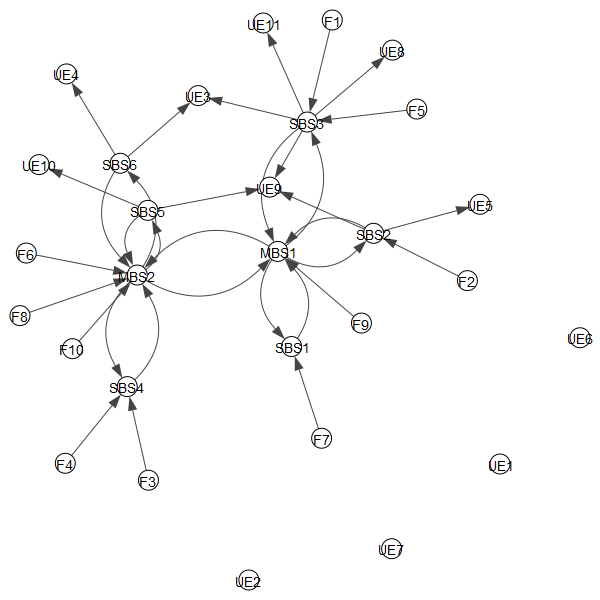
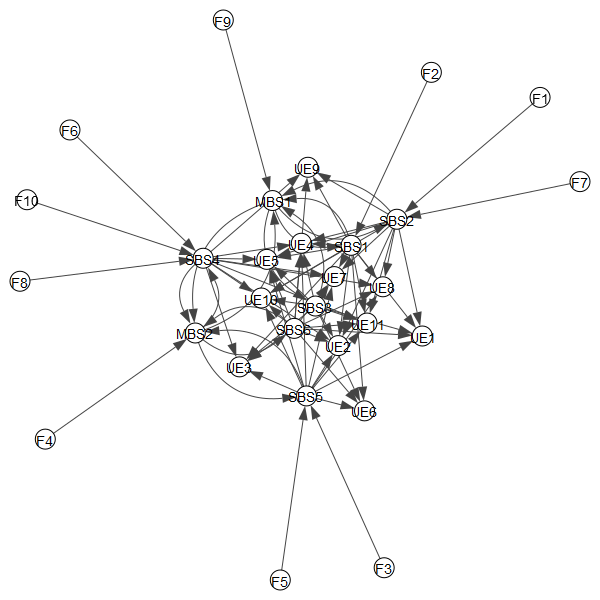
resolved ue without coverage

diff --git a/ModelingV0/modeling/optimize.py b/ModelingV0/modeling/optimize.py
@@ -792,7 +792,7 @@ class LogData:
         print()
 
     def __log_throughput_min_dict(self):
-        print("MINIMAL throughput.")
+        print("MINIMAL THROUGHPUT.")
         for k in self.data.throughput_min_file_dict.keys():
             print(k, self.data.throughput_min_file_dict[k])
         print()
@@ -848,7 +848,7 @@ class LogData:
             print(k, self.data.omega_user_node_dict[k])
 
     def __log_expected_throughput_edge(self):
-        print("EXPECTED throughput.")
+        print("EXPECTED THROUGHPUT.")
         if self.data.throughput_expected_edge is not None:
             for f, filename in enumerate(self.data.key_index_file):
                 print(filename.upper())
@@ -860,12 +860,12 @@ class LogData:
         print()
 
     def __log_expected_throughput_edge_dict(self):
-        print("EXPECTED throughput.")
+        print("EXPECTED THROUGHPUT.")
         for k in self.data.throughput_expected_edge_dict.keys():
             print(k, self.data.throughput_expected_edge_dict[k])
 
     def __log_current_throughput_edge(self):
-        print("CURRENT throughput.")
+        print("CURRENT THROUGHPUT.")
         for f, filename in enumerate(self.data.key_index_file):
             print(filename.upper())
             for i in range(len(self.data.key_index_all)):
@@ -876,12 +876,12 @@ class LogData:
         print()
 
     def __log_current_throughput_edge_dict(self):
-        print("CURRENT throughput.")
+        print("CURRENT THROUGHPUT.")
         for k in self.data.throughput_current_edge_dict.keys():
             print(k, self.data.throughput_current_edge_dict[k])
 
     def __log_diff_throughput_edge(self):
-        print("DIFFERENCE throughput")
+        print("DIFFERENCE THROUGHPUT")
         for f, filename in enumerate(self.data.key_index_file):
             print(filename.upper())
             for i in range(len(self.data.key_index_all)):
@@ -892,7 +892,7 @@ class LogData:
         print()
 
     def __log_diff_throughput_edge_dict(self):
-        print("DIFFERENCE throughput")
+        print("DIFFERENCE THROUGHPUT")
         for k in self.data.throughput_diff_edge_dict.keys():
             print(k, self.data.throughput_diff_edge_dict[k])
 

diff --git a/ModelingV0/generator/generate_new_instance.py b/ModelingV0/generator/generate_new_instance.py
@@ -139,6 +139,7 @@ def main():
 
     generate_json(path)
 
+
 def generate_throughput_min():
     global throughput_min_file
     throughput_min_file = [0 for f in range(num_files)]
@@ -149,6 +150,7 @@ def generate_throughput_min():
     for f in range(num_files):
         print(throughput_min_file[f], end=" ")
     print()
+
 
 def generate_gama():
     global gama
@@ -173,7 +175,7 @@ def generate_distance_ue():
 
     for u in range(num_ue):
         for i in range(num_mbs,num_bs):
-            dist = s.NormalDist(radius_sbs, 2*radius_mbs).samples(1, seed=None)[0]
+            dist = s.NormalDist(radius_sbs, radius_sbs).samples(1, seed=None)[0]
             if dist > max_ran:
                 dist = max_ran
             # distance_ue[u][i] = float(np.around(abs(np.random.normal(1, max_ran, 1)), 2))
@@ -182,6 +184,8 @@ def generate_distance_ue():
     for u in range(num_ue):
         for i in range(num_mbs):
             distance_ue[u][i] = float(radius_mbs + 1)
+
+
 
     print("DISTÂNCIA ENTRE UE E SBS.")
     for u in range(len(key_index_ue)):
@@ -278,6 +282,7 @@ def generate_resources_file():
         print(resources_file[f], end=" ")
     print()
 
+
 def generate_size_file():
     global size_file
     size_file = [0 for f in range(num_files)]
@@ -288,6 +293,7 @@ def generate_size_file():
     for f in range(num_files):
         print(size_file[f], end=" ")
     print()
+
 
 def generate_rtt_min():
     global rtt_min

diff --git a/ModelingV0/Optimization/discrete_event_manager.py b/ModelingV0/Optimization/discrete_event_manager.py
@@ -61,7 +61,7 @@ data = None
 
 show_log = 0
 show_results = False
-show_path = False
+show_path = True
 show_var = False
 show_par = False
 plot_distribution = False
@@ -69,11 +69,11 @@ plot_data = False
 show_all_paths = False
 type = Type.ZIPF
 mobility = Mobility.IS_MOBILE
-path_output = r'..\output\data\instance_1.xlsx'
-save_data = False
-path_graph = r'..\output\graph\instance_1.png'
-plot_graph = False
-path_dataset = r'..\dataset\instance_1.json'
+path_output = r'..\output\data\instance_3.xlsx'
+save_data = True
+path_graph = r'..\output\graph\instance_3.png'
+plot_graph = True
+path_dataset = r'..\dataset\instance_3.json'
 def main():
     #########################################################################################################################
     # random and distribution.
